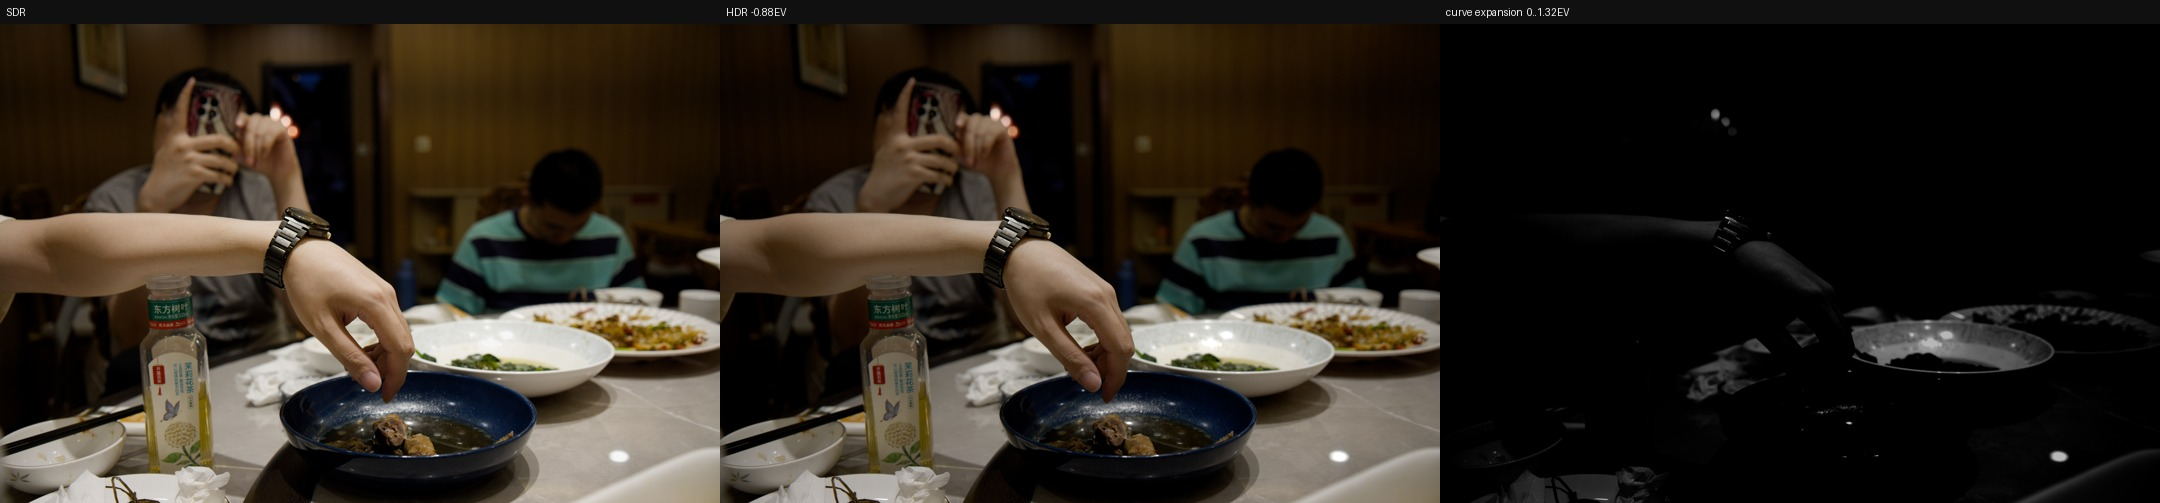
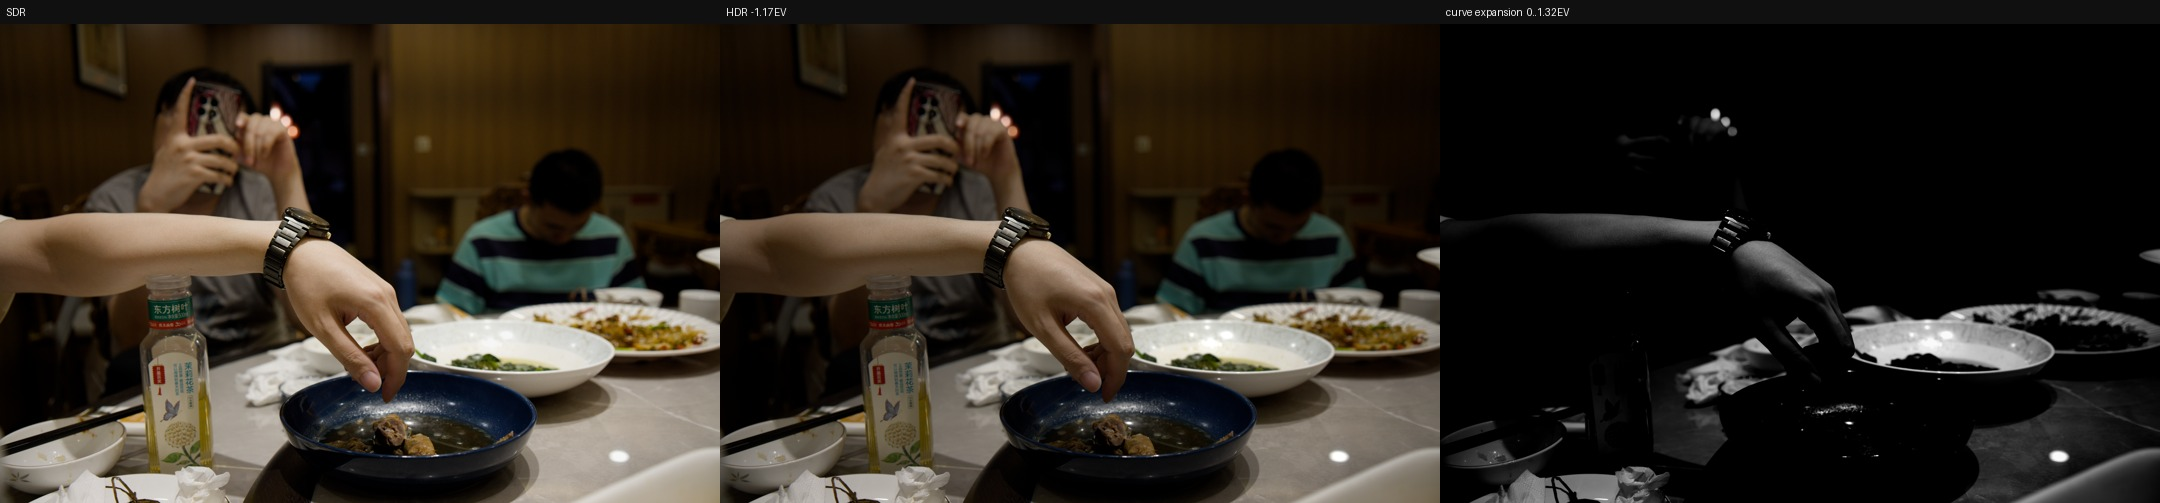
docs: feature HDR allocation diagnostics

diff --git a/README.md b/README.md
@@ -17,6 +17,24 @@ with the code, parameters, and data from other cameras.
 
 [中文说明](README.zh-CN.md) · [License](LICENSE) · [Third-party notices](NOTICE.md)
 
+## HDR in one frame
+
+![SDR, exposure-normalized HDR, and HDR curve-expansion map](docs/assets/hdr-comparisons/_SDI0150_native_hdr_ab.jpg)
+
+This is the quickest way to see what the HDR branch is doing on an ordinary SDR page.
+From left to right: the normal SDR rendition; the independent HDR rendition exposed down
+by the headroom it actually reached; and a luminance map of where the HDR curve spent its
+extra range. In the right panel, black means no expansion and white means the full
+scene-earned HDR budget.
+
+More precisely, the right panel plots
+`log2(Y_HDR / Y_reference-white)` from 0 to the compiled headroom. It is not a dump of the
+JPEG's auxiliary RGB gain-map bytes: it isolates the brightness allocation made by HDR
+AgX before packaging. The actual ISO gain map is the downstream ratio between the completed
+SDR and HDR renditions. In this frame the extra range stays around lamps and reflections
+instead of lifting the whole photograph. [Three scenes and the measured values are shown
+below.](#hdr-comparisons)
+
 ## How to read this
 
 To just convert a photo, [Quick start](#quick-start) is enough; the rest is optional.
@@ -947,11 +965,32 @@ gates are documented in
 These are SDR diagnostic sheets, not screenshots of an HDR display. Each sheet shows SDR,
 the native HDR rendition exposed down by its measured headroom, and the curve-expansion map.
 The middle panel is expected to look darker because reference-white-plus detail has been
-brought back into the page's SDR range.
+brought back into the page's SDR range. The right panel is the log-stop luminance ratio
+between the native extended-white curve and a reference-white render of the same HDR
+branch. It therefore shows where the DRT allocates extra brightness without confusing that
+decision with colour geometry or JPEG packaging.
 
-| Mixed indoor portrait | Stage highlights |
-|---|---|
-| ![Native extended-white HDR AgX mixed-light diagnostic](docs/assets/hdr-comparisons/_SDI0150_native_hdr_ab.jpg) | ![Native extended-white HDR AgX stage-light diagnostic](docs/assets/hdr-comparisons/_SDI0199_native_hdr_ab.jpg) |
+| Frame | Compiled range | Reached by pixels | Channels above SDR white | Scene-body shift |
+|---|---:|---:|---:|---:|
+| `_SDI0150` mixed light | +1.36 EV | +1.20 EV | 1.75% | -0.00014 EV |
+| `_SDI0199` stage / ISO 25600 | +1.26 EV | +1.14 EV | 1.72% | -0.00004 EV |
+| `_SDI0133` dark restaurant | +1.32 EV | +1.17 EV | 3.13% | -0.00015 EV |
+
+The near-zero body shifts are the important control: the HDR branch is spending display
+range on highlights, not using headroom as a hidden exposure lift. The percentages count
+RGB channel samples above reference white, not whole pixels. These half-resolution sheets
+are generated by [`tools/hdr_ab.py`](tools/hdr_ab.py); production JPEGs are still rendered
+and round-trip verified at full resolution.
+
+**Mixed indoor portrait — highlight range stays in the linear lamps and reflections**
+
+![Native extended-white HDR AgX mixed-light diagnostic](docs/assets/hdr-comparisons/_SDI0150_native_hdr_ab.jpg)
+
+**Stage / ISO 25600 — sparse emitters receive the range while the room stays dark**
+
+![Native extended-white HDR AgX stage-light diagnostic](docs/assets/hdr-comparisons/_SDI0199_native_hdr_ab.jpg)
+
+**Dark restaurant — small reflections and skin highlights expand without lifting the scene**
 
 ![Native extended-white HDR AgX restaurant-highlight diagnostic](docs/assets/hdr-comparisons/_SDI0133_native_hdr_ab.jpg)
 
